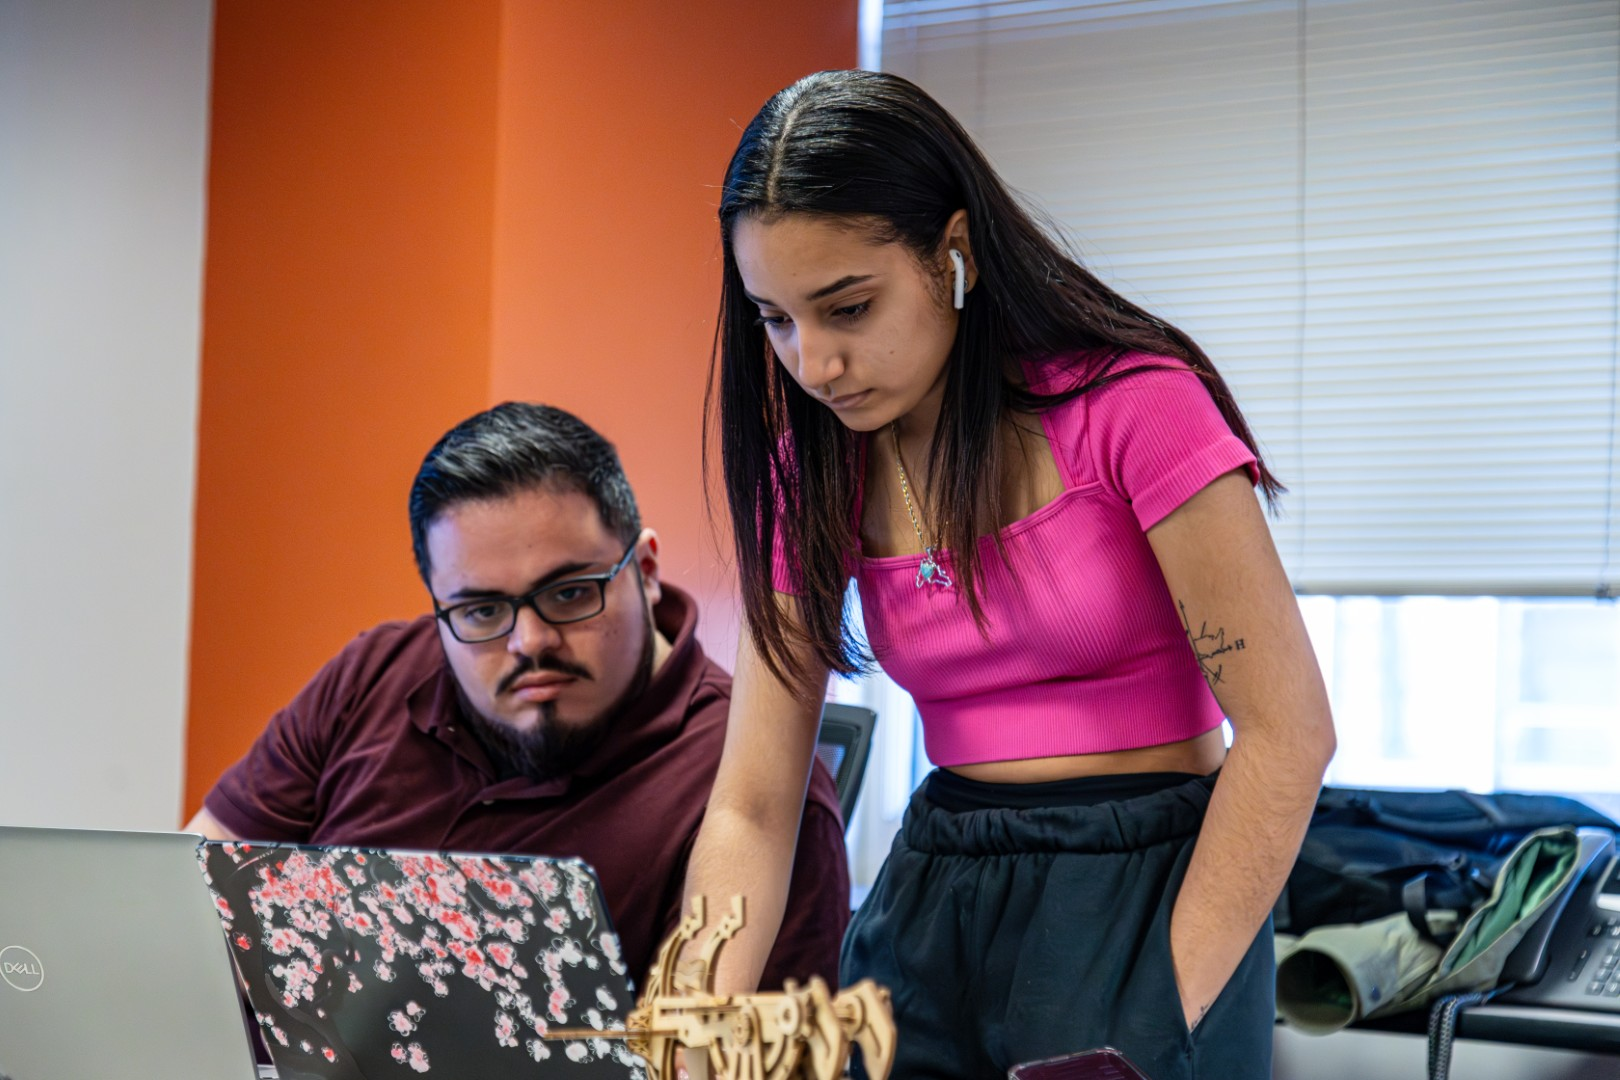
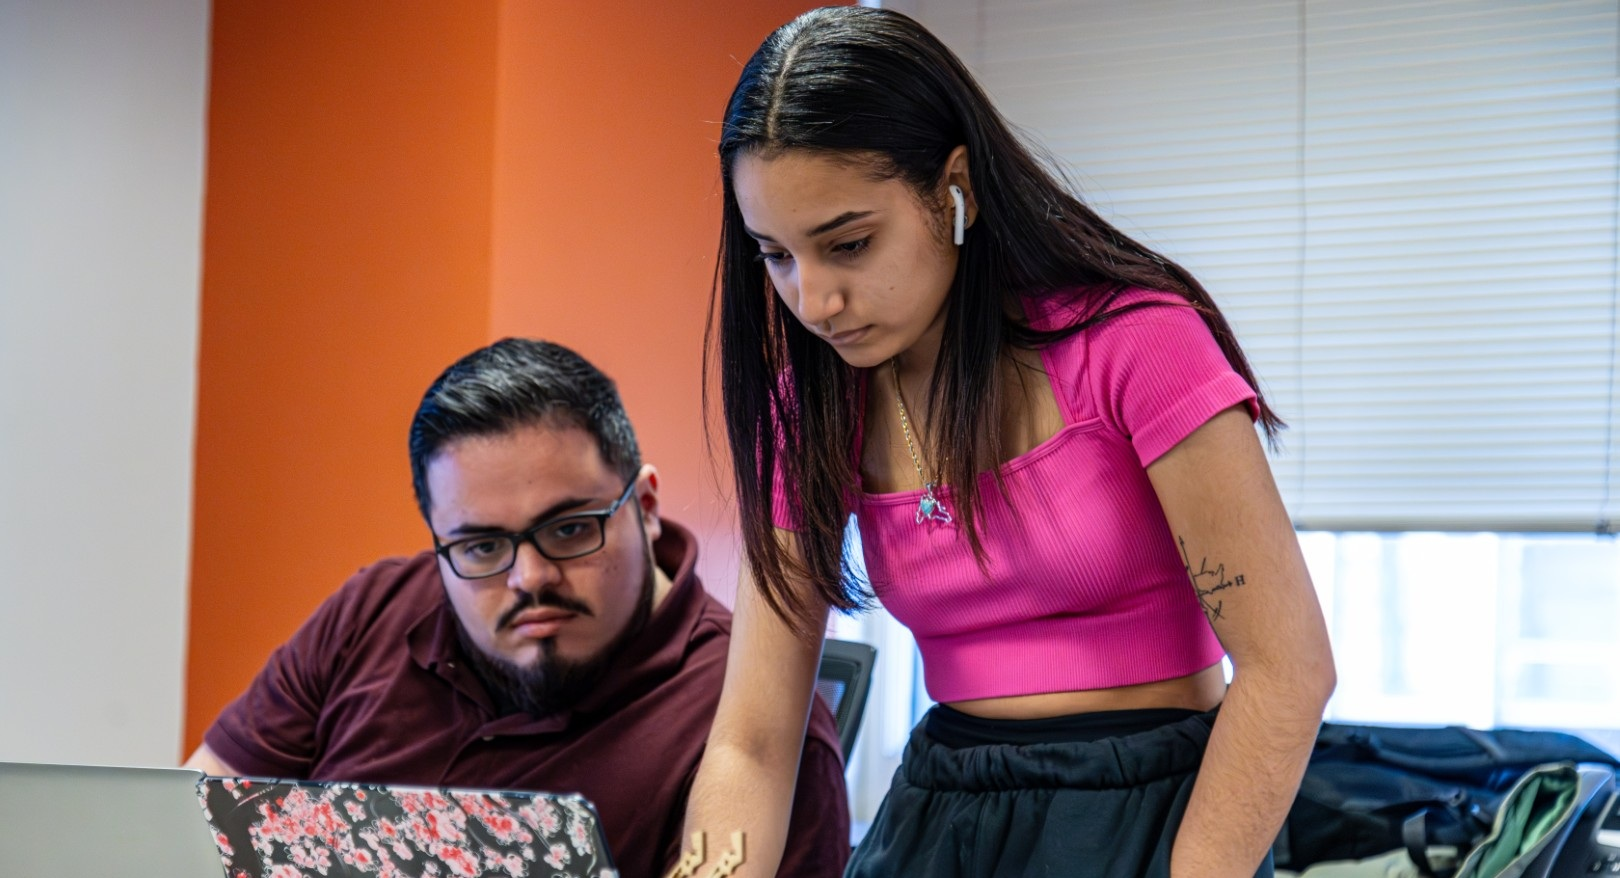
image resize

diff --git a/service-excellence-intro-ken-burns/index.html b/service-excellence-intro-ken-burns/index.html
@@ -114,9 +114,6 @@
         <div class="carousel-item">
           <img src="nlu_smugmug_59.jpg" alt="Slide 8" />
         </div>
-        <div class="carousel-item">
-          <img src="nlu_smugmug_61.jpg" alt="Slide 9" />
-        </div>
       </div>
       <button
         class="carousel-control-prev"
